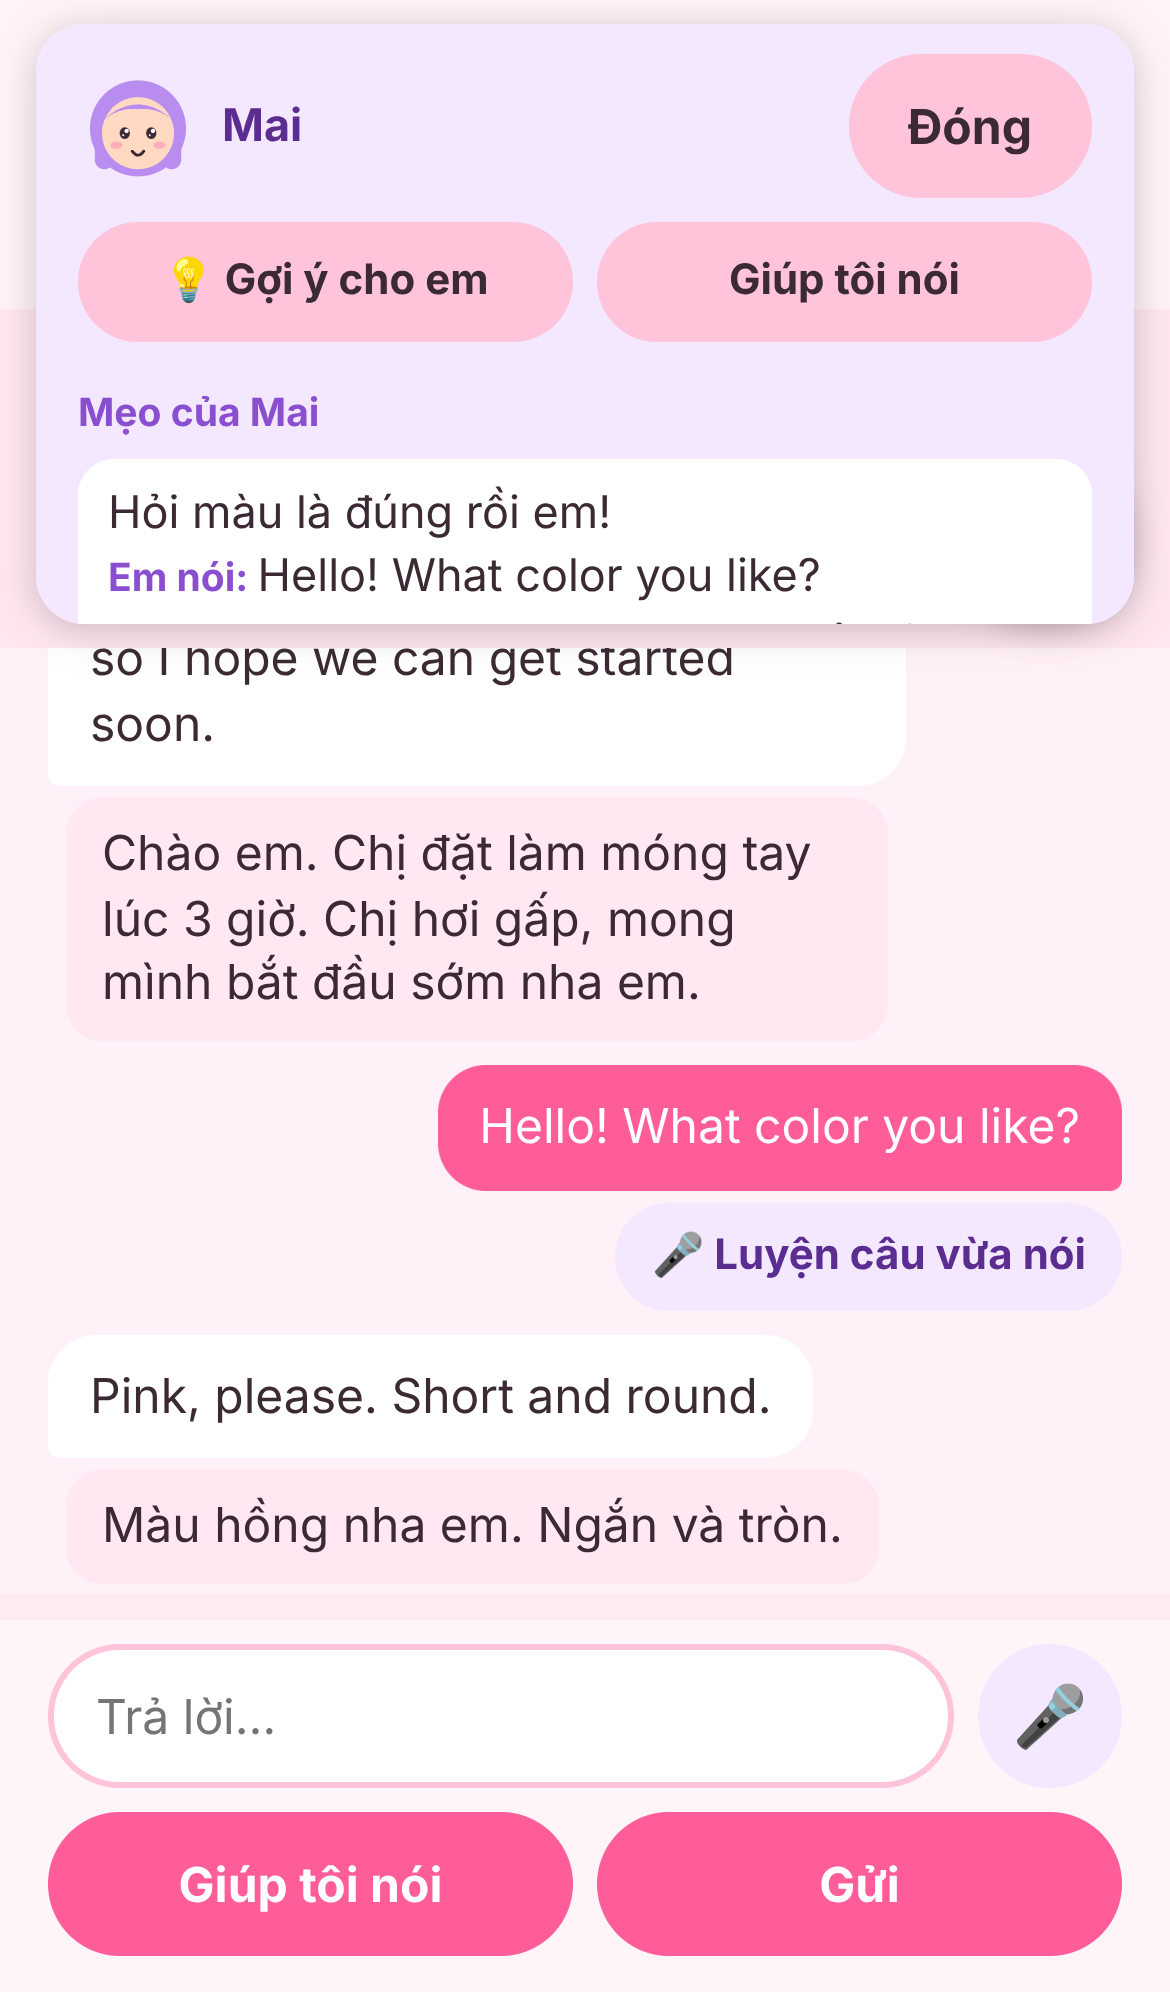
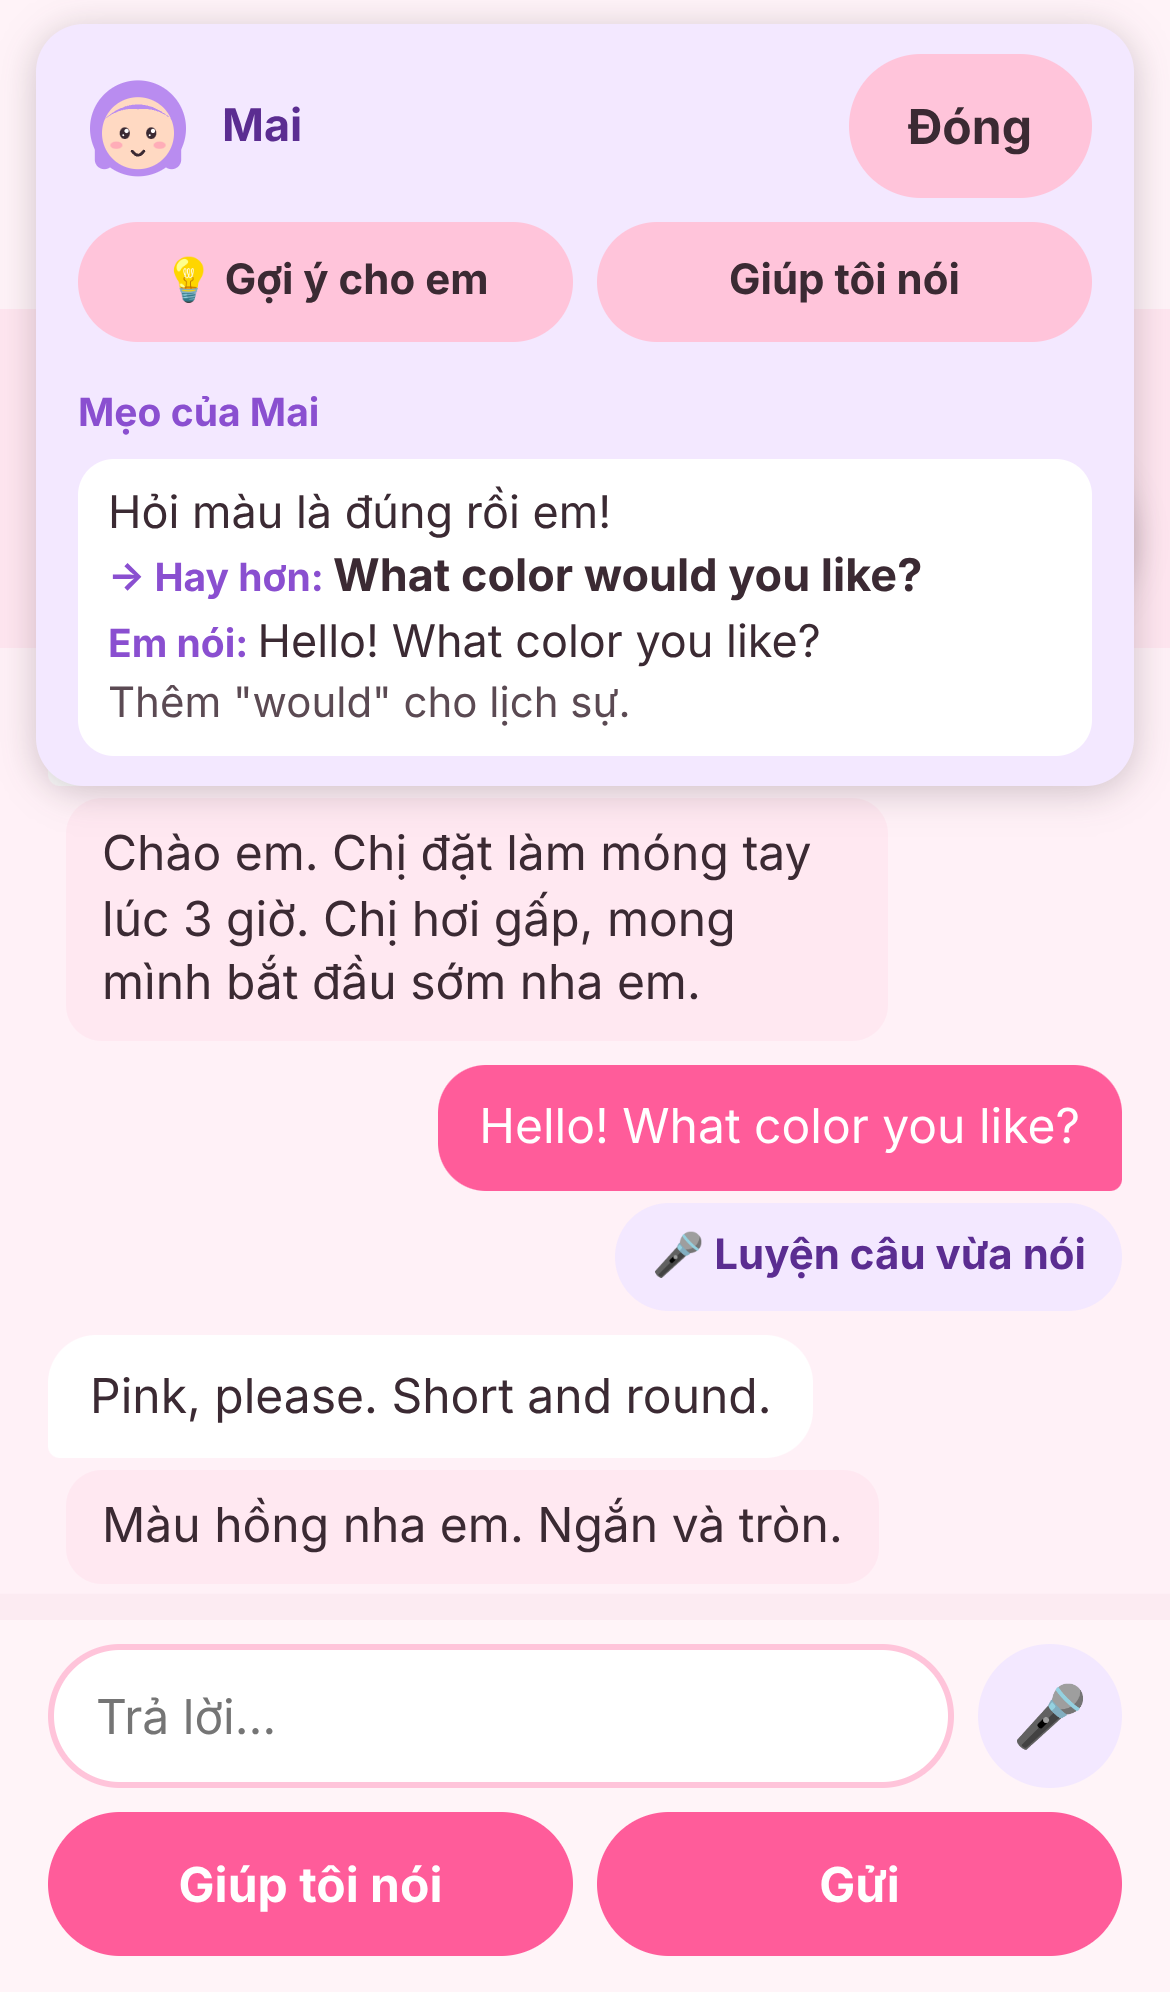
Mai panel: the whole tip stays visible at 320 px (Better line first after the praise)
Overseer review of d1f4e8d:
1. vi-320-03: the tip was cut at the panel's bottom edge. The panel now grows
   down over the chat when it holds tips (max 60% of the screen) and scrolls
   inside after that; each tip shows praise, then "-> Better", then "You
   said", then the reason. The evidence script now asserts every tip line is
   inside the panel: passed en/vi at 390 and 320. Mai-bubble shots re-taken.
2. The muted speaker in the en-02 shot is only the evidence script (it turns
   the voice off to keep runs quiet). In the game the client voice is ON by
   default (getClientVoiceEnabled: on unless the player turned it off).

Claude-Session: https://claude.ai/code/session_01Fx5cxFjSfz8L37QZFocT7H

Changed region(s): [[0.0308, 0.2801, 0.9538, 0.3735], [0.9538, 0.2801, 0.9846, 0.3112]]

diff --git a/src/game/ui/mai-bubble.css b/src/game/ui/mai-bubble.css
@@ -5,7 +5,8 @@
 .mai-layer[data-side='left'] .mai-bubble { right: auto; left: 12px; }
 .mai-bubble .mascot { display: block; border-radius: 50%; overflow: hidden; }
 .mai-badge { position: absolute; top: -4px; right: -4px; min-width: 22px; height: 22px; padding: 0 6px; box-sizing: border-box; border-radius: 11px; background: #ff5c9a; color: #fff; font: 700 13px/22px system-ui, sans-serif; text-align: center; box-shadow: 0 0 0 2px #fff; }
-.mai-panel { position: absolute; inset: 8px 12px; z-index: 2; overflow-y: auto; padding: 10px 14px; background: #f3e8ff; border-radius: 16px; box-shadow: 0 2px 12px rgba(59, 42, 51, 0.25); display: flex; flex-direction: column; gap: 8px; font-size: 15px; line-height: 1.3; }
+/* Over the top strip; with tips it may grow down over the chat (max 60% of the screen) and scrolls inside after that. */
+.mai-panel { position: absolute; top: 8px; left: 12px; right: 12px; min-height: calc(100% - 16px); max-height: 60vh; box-sizing: border-box; z-index: 2; overflow-y: auto; padding: 10px 14px; background: #f3e8ff; border-radius: 16px; box-shadow: 0 2px 12px rgba(59, 42, 51, 0.25); display: flex; flex-direction: column; gap: 8px; font-size: 15px; line-height: 1.3; }
 .mai-panel-header { display: flex; align-items: center; gap: 8px; }
 .mai-panel-name { flex: 1; color: #5b2d91; }
 .mai-tips { display: flex; flex-direction: column; gap: 6px; }

diff --git a/src/game/ui/mai-bubble.ts b/src/game/ui/mai-bubble.ts
@@ -97,7 +97,8 @@ export function createMaiBubble(options: MaiBubbleOptions): MaiBubble {
     better.append(el('span', 'bestie-label', `→ ${t('learning.better')}: `), betterText);
     const reason = el('p', 'bestie-reason', tip.reason);
     reason.lang = tip.language;
-    item.append(praise, said, better, reason);
+    // Praise first (kind before correcting), then the Better line, so the key part is never the part cut off.
+    item.append(praise, better, said, reason);
     return item;
   };
 

diff --git a/src/game/ui/bestie-panel.css b/src/game/ui/bestie-panel.css
@@ -16,6 +16,6 @@
   .bestie-greeting { padding: 8px 12px; font-size: 14px; line-height: 1.3; }
 }
 @media (max-height: 640px), (max-width: 360px) {
-  .mai-panel { inset: 4px 8px; padding: 8px 12px; font-size: 14px; }
+  .mai-panel { top: 4px; left: 8px; right: 8px; padding: 8px 12px; font-size: 14px; }
   .bestie-reason { font-size: 13px; }
 }
